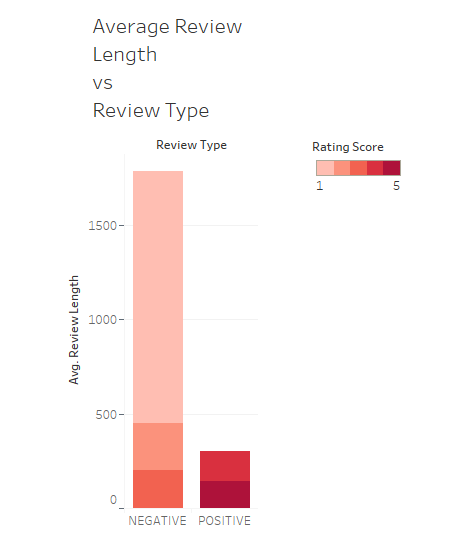
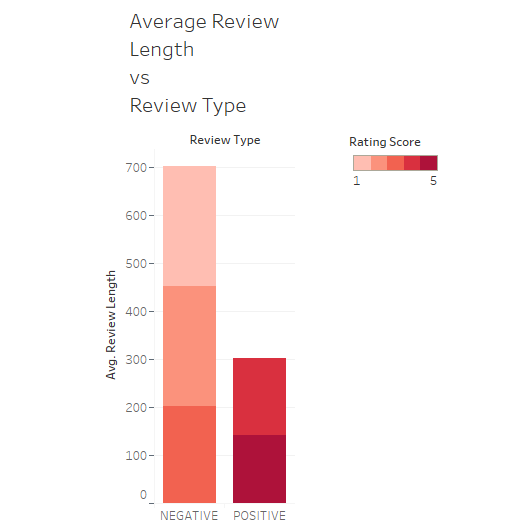
Visulaizaton Page Added

Changed region(s): [[0.1483, 0.0301, 0.5636, 0.9925], [0.6525, 0.2406, 0.8602, 0.3609]]

diff --git a/templates/visualization.html b/templates/visualization.html
@@ -53,8 +53,8 @@
                   <img src="static/images/review-length-type2.PNG">
                   <div class="div_box">
                        Average length of review text is double in negative reviews than positive reviews (700 vs 300).
-                       It is highest in reviews with no rating score ( Avg Length >1000)
-                      <br><br>
+                       
+                      <br><br><br>
                       <a target="_blank" href="">Tableau Link</a>
                   </div>
               </div>
@@ -80,7 +80,7 @@
                   </div>
               </div>
               <div class="col-md-6">
-                  <img src="static/images/review-length-score.PNG">
+                  <img src="static/images/review-length-score2.PNG">
                   <div class="div_box">
                       Rating score 1 and 2 have approx same avg. review length, followed by rating score 3 and then 1 and 2.
                       It summarizes that the lower the rating score, the higher is the avg. length of review.
